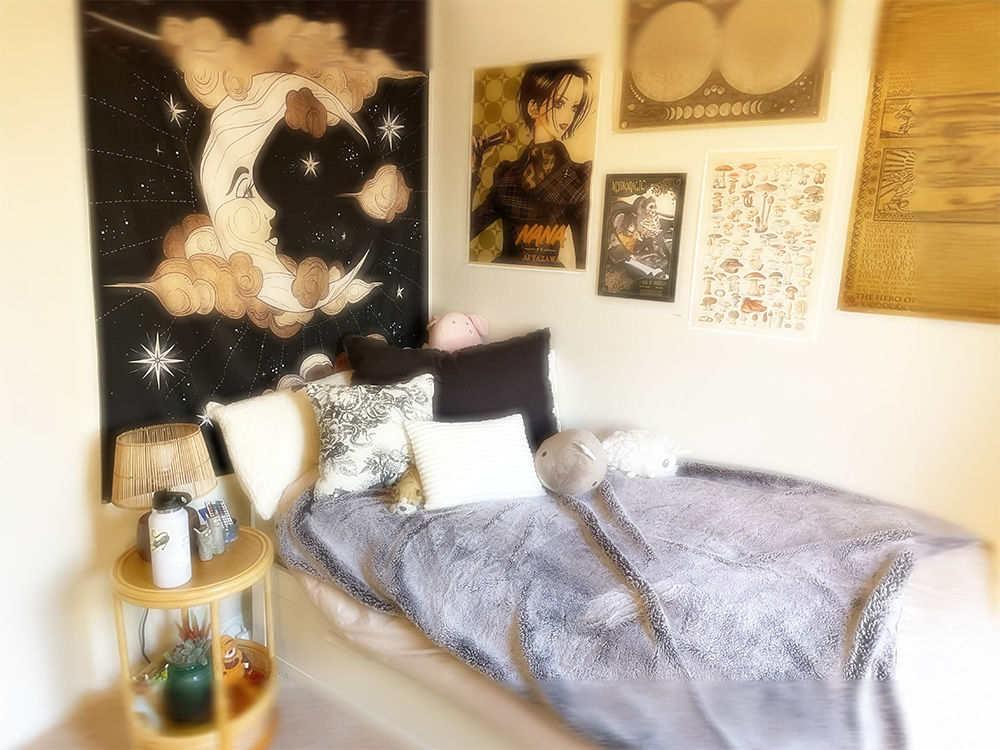
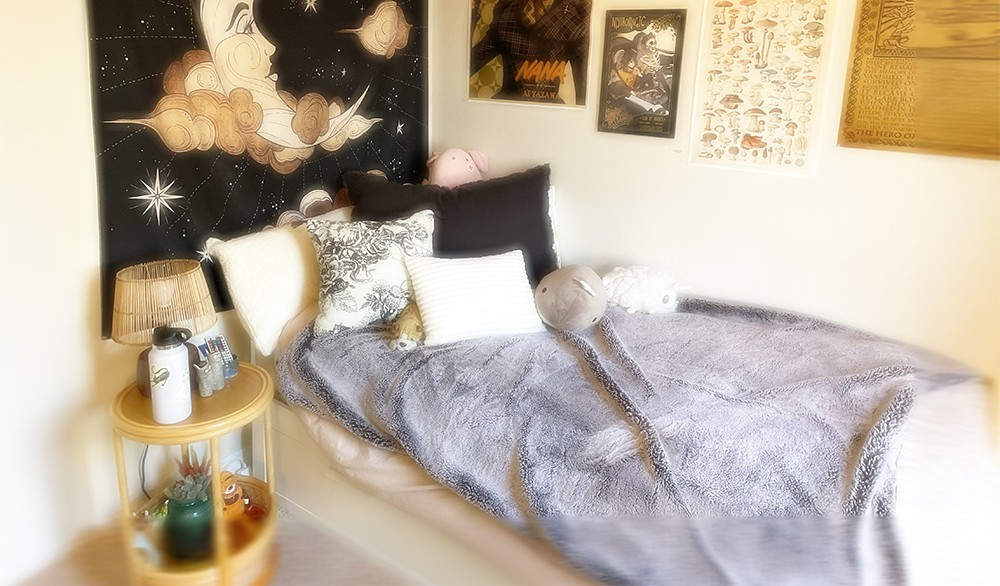
updates to every picture

diff --git a/everypicture/final/styles.css b/everypicture/final/styles.css
@@ -5,7 +5,7 @@ main {
     background-image: url(images/bedroom-edited.jpg);
     background-repeat: no-repeat;
     width: 1000px;
-    height: 750px;
+    height: 580px;
     margin: auto;
     position: relative;
 }
@@ -14,7 +14,7 @@ h1 {
     font-weight: 400;
     font-style: normal;
     color: white;
-    font-size: 40px;
+    font-size: 50px;
     text-align: center;
     cursor: default;
     width: max-content;
